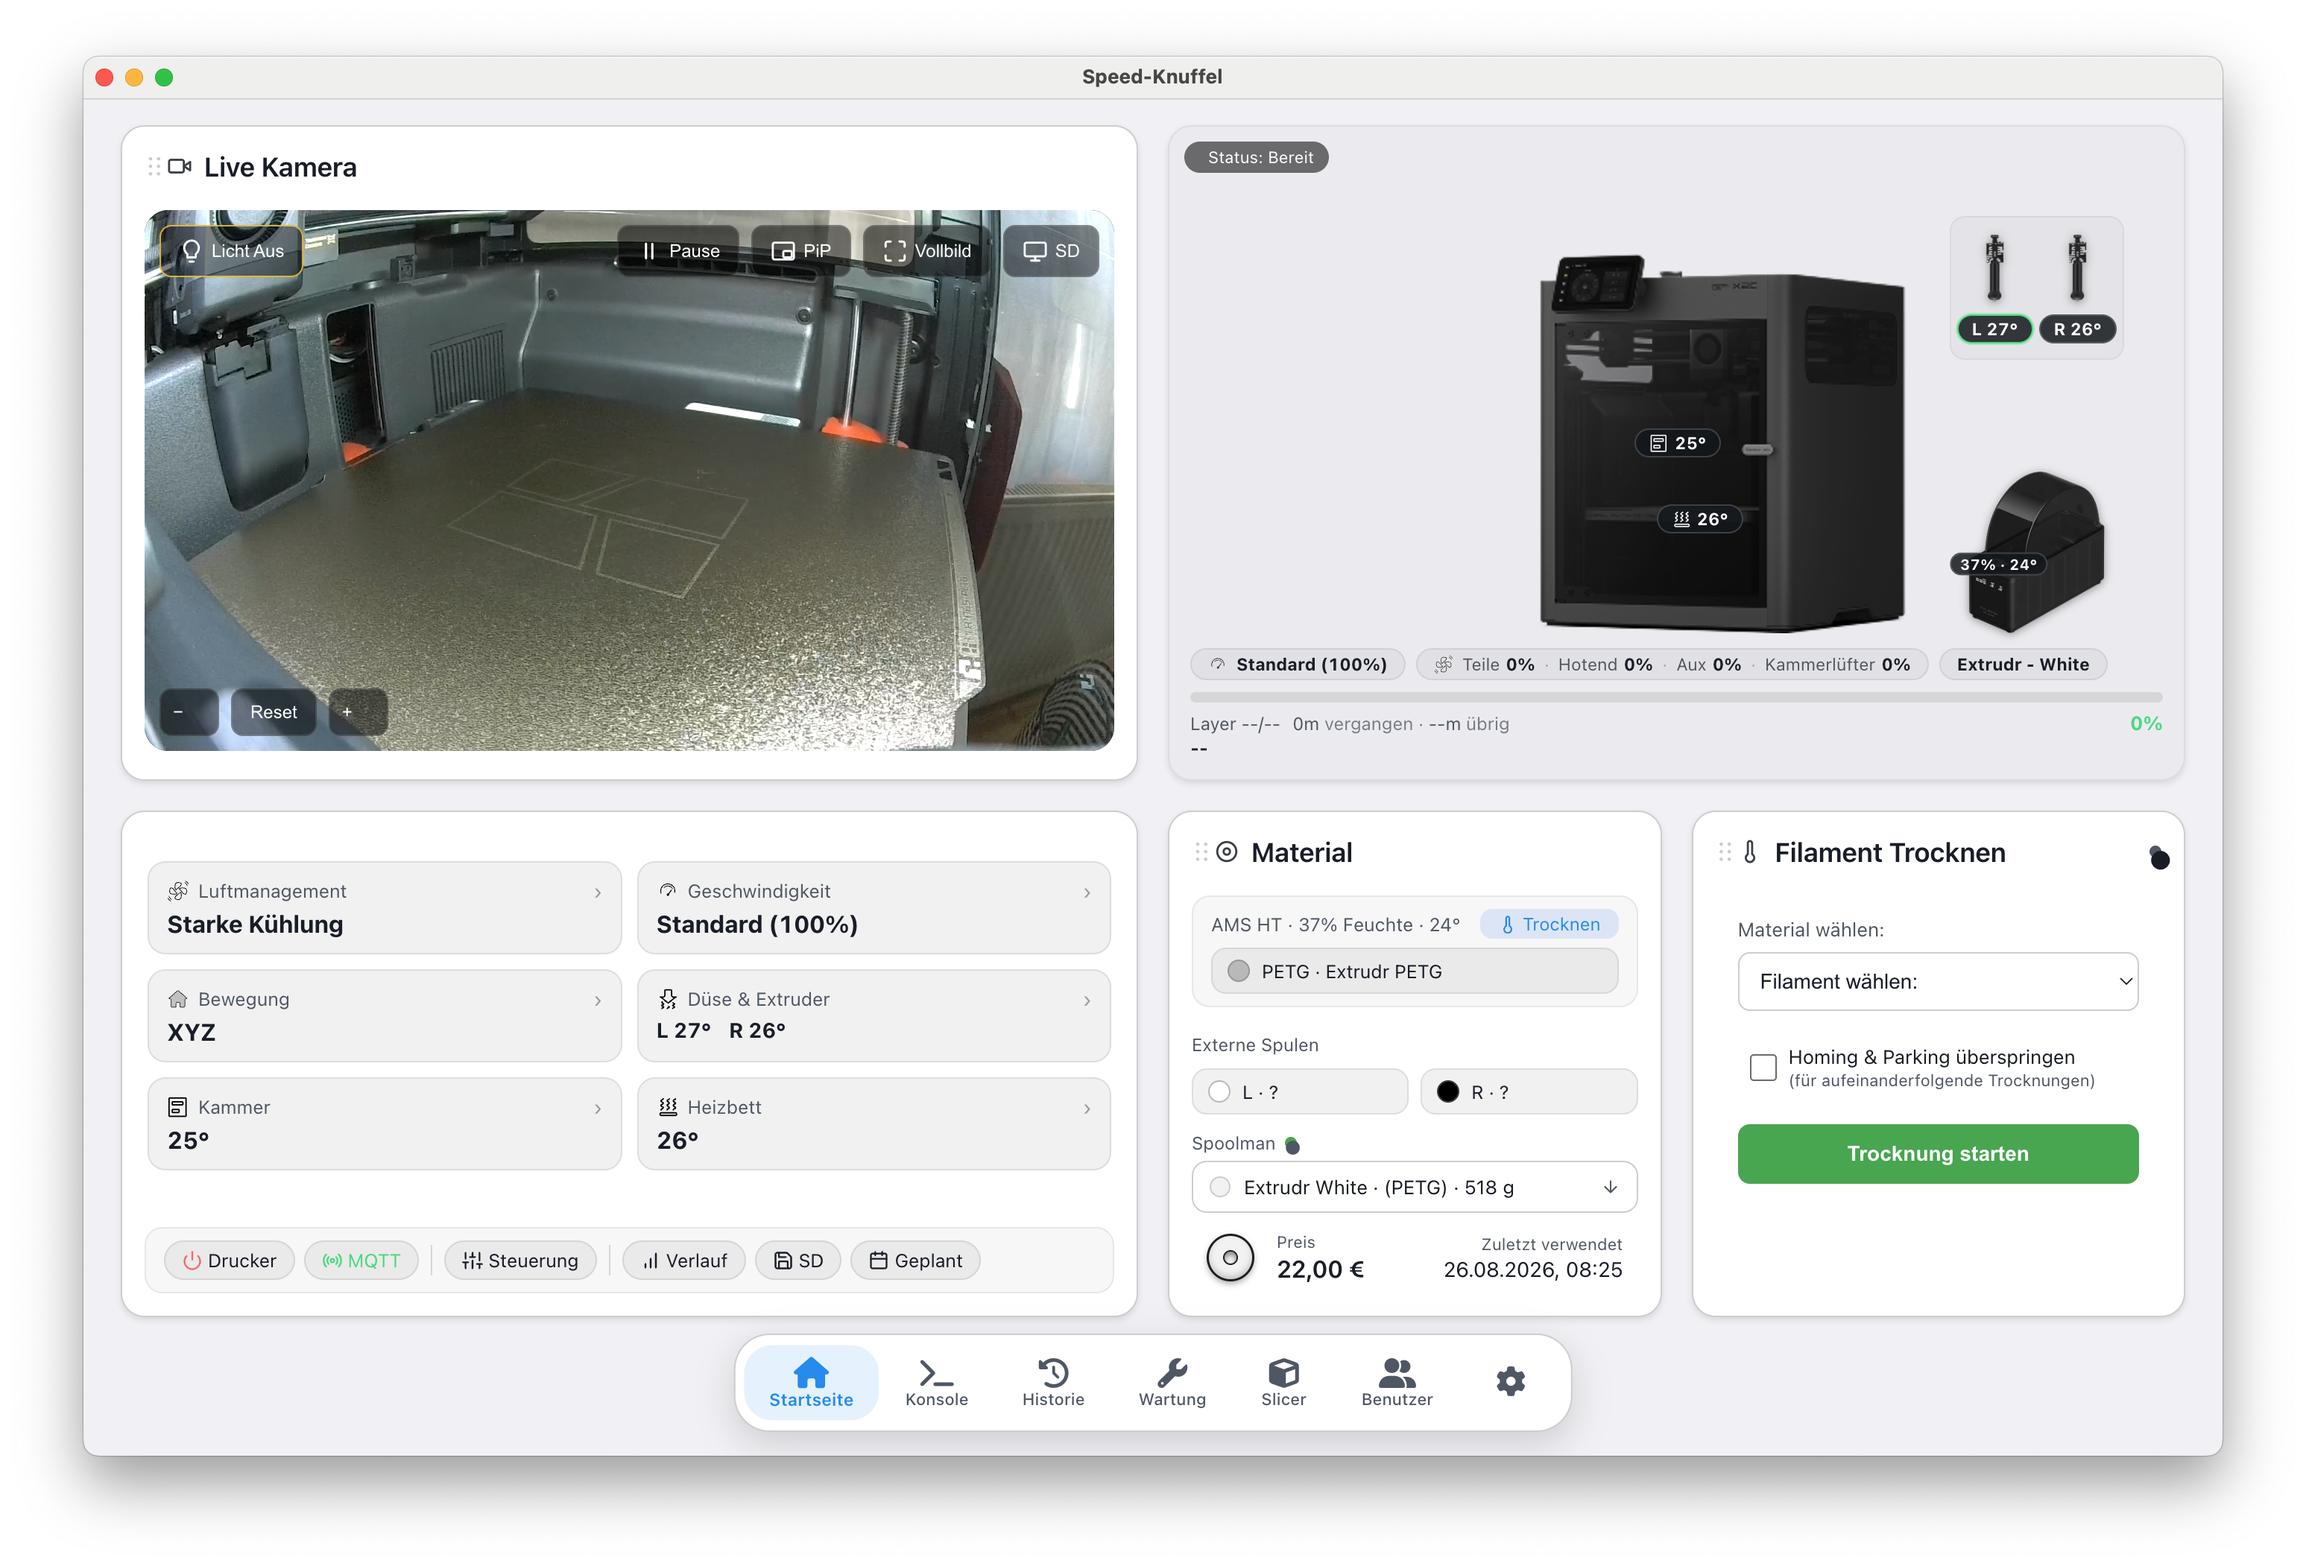
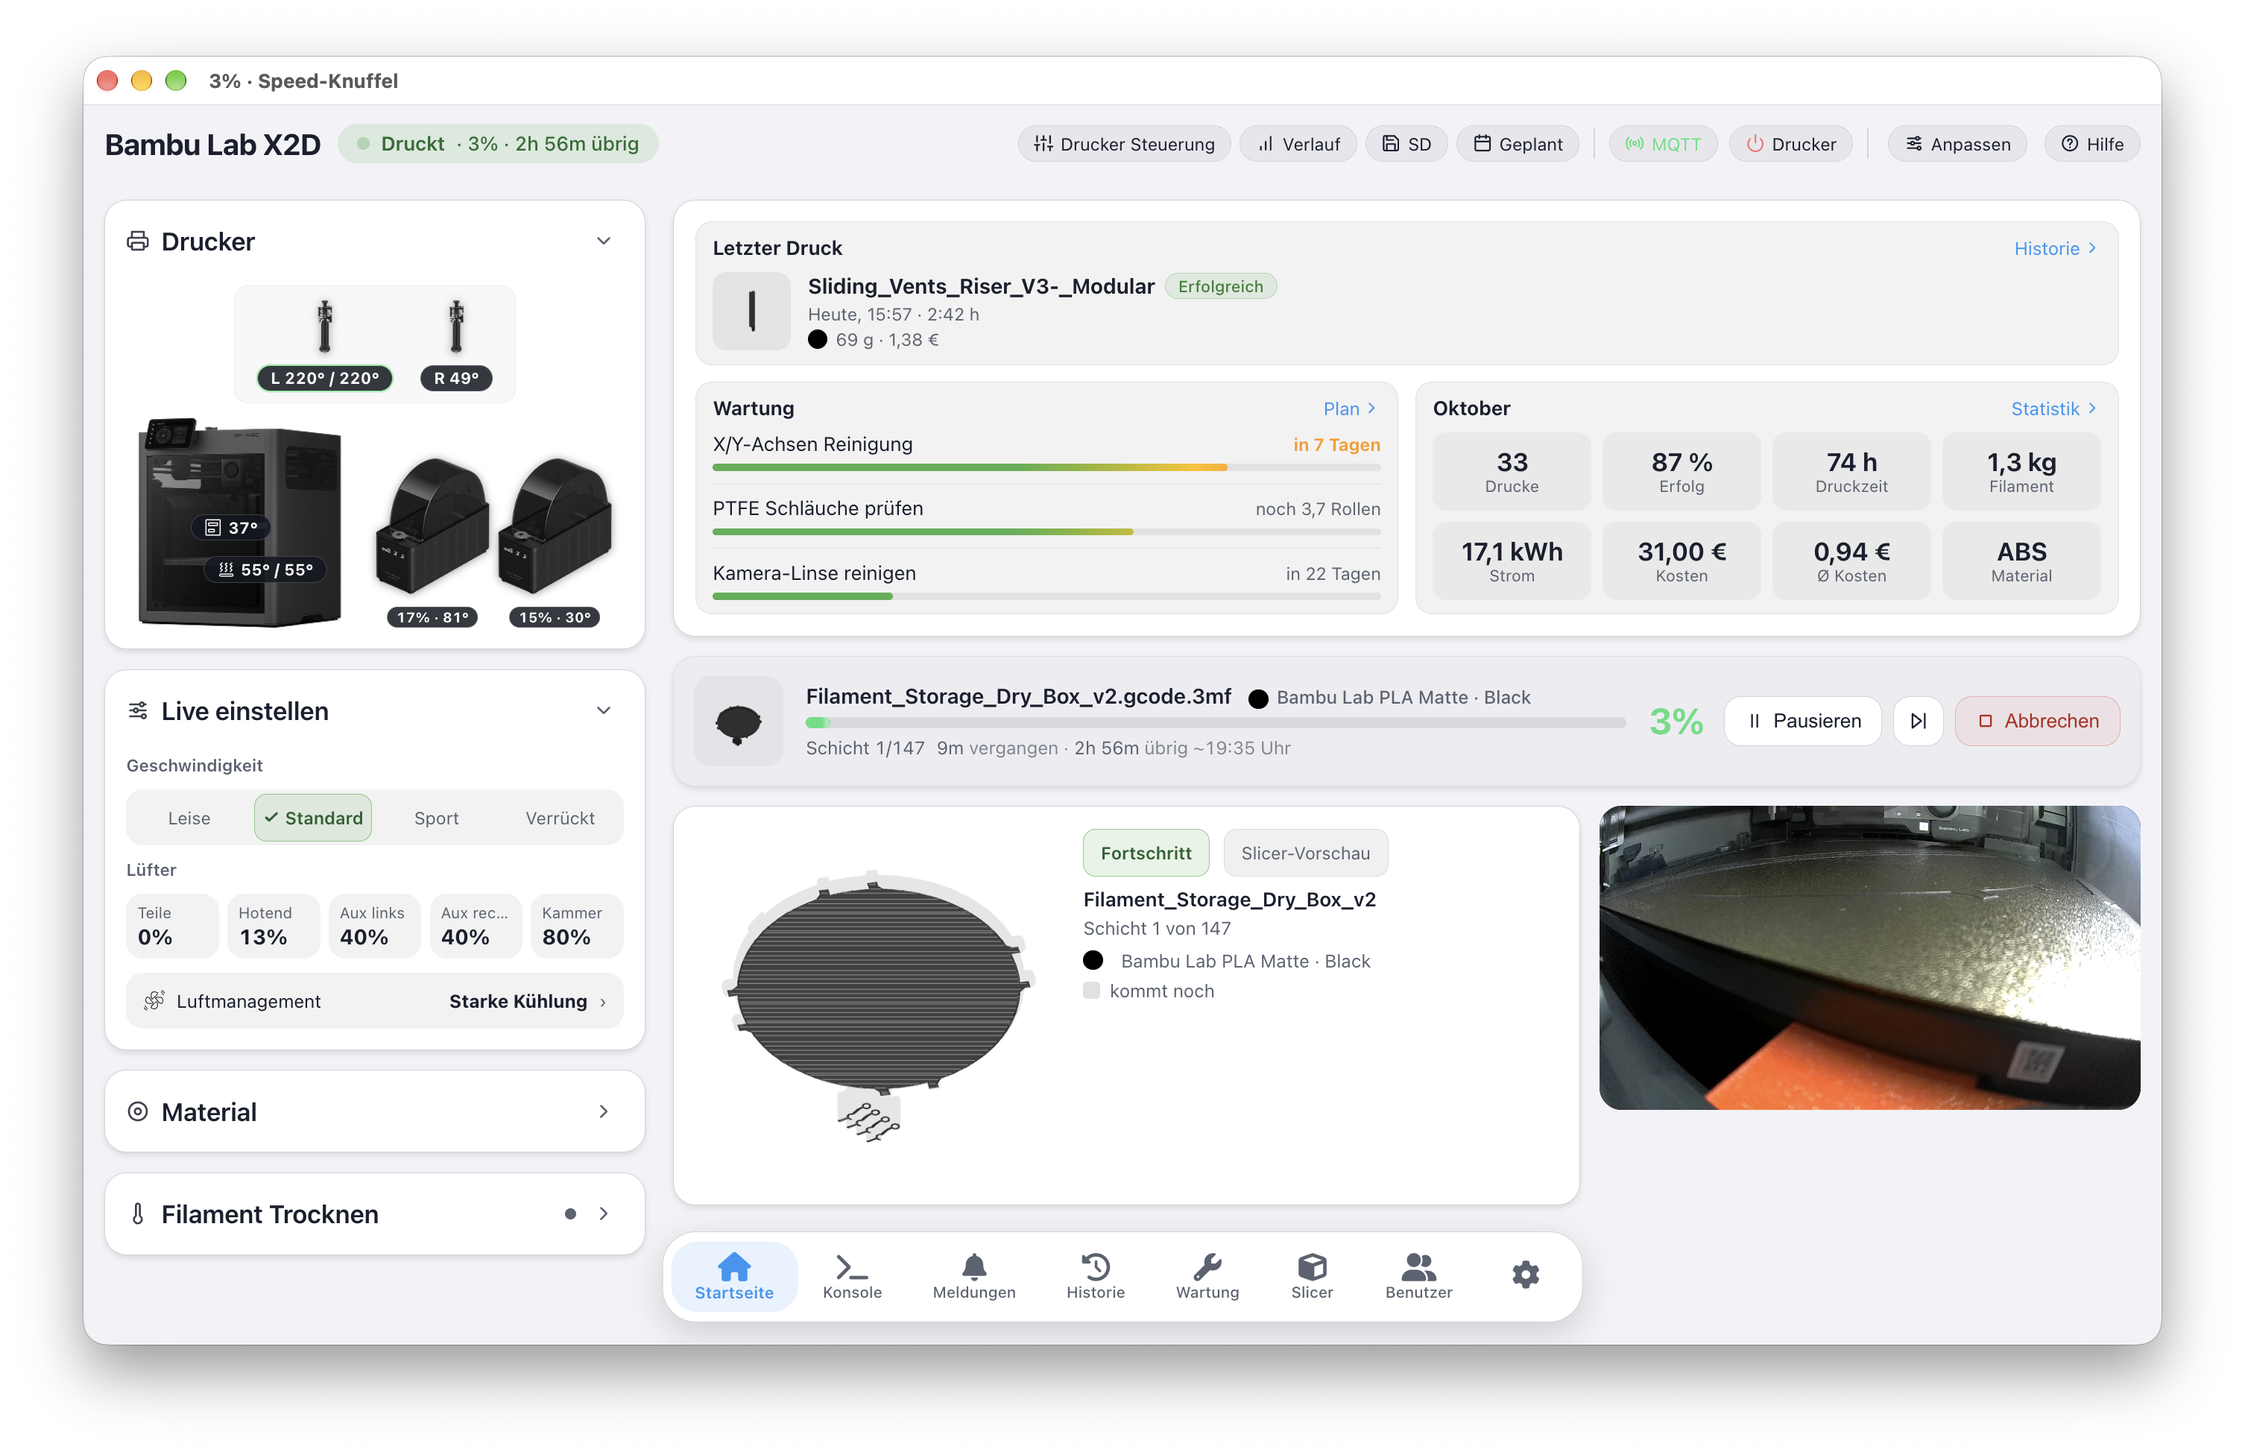
feed: feed install.sh manage.sh quick-install.sh requirements.txt start.py data README.md README.de.md docs/screenshots

diff --git a/README.md b/README.md
@@ -382,8 +382,8 @@ Status is never colour alone — there is always a glyph or a word beside it.
 |---|---|---|---|---|---|---|
 | 🏠 **Home** | ⌨ **Console** | 🕐 **History** | 🔧 **Maintenance** | 📦 **Slicer** | 👥 **Users** | ⚙ **Settings** |
 
-**Dialogs** — fans, speed, temperatures, editing filament, choosing a spool, and
-the sensor history:
+**Dialogs** — fans, speed, temperatures, editing filament, choosing a spool, the
+sensor history, and drying in the AMS with the spool's humidity history:
 
 <div align="center">
 <a href="docs/screenshots/dialog-fans.png"><img src="docs/screenshots/dialog-fans.png" width="190"/></a>
@@ -392,6 +392,9 @@ the sensor history:
 <a href="docs/screenshots/dialog-filament-edit.png"><img src="docs/screenshots/dialog-filament-edit.png" width="190"/></a>
 <a href="docs/screenshots/dialog-spool-select.png"><img src="docs/screenshots/dialog-spool-select.png" width="190"/></a>
 <a href="docs/screenshots/dialog-sensors.png"><img src="docs/screenshots/dialog-sensors.png" width="190"/></a>
+<a href="docs/screenshots/dialog-drying.png"><img src="docs/screenshots/dialog-drying.png" width="190"/></a>
+<a href="docs/screenshots/dialog-drying-history.png"><img src="docs/screenshots/dialog-drying-history.png" width="190"/></a>
+<a href="docs/screenshots/dialog-drying-running.png"><img src="docs/screenshots/dialog-drying-running.png" width="190"/></a>
 </div>
 
 **Settings and console:**

diff --git a/README.de.md b/README.de.md
@@ -385,7 +385,7 @@ Wort.
 | 🏠 **Start** | ⌨ **Konsole** | 🕐 **Historie** | 🔧 **Wartung** | 📦 **Slicer** | 👥 **Benutzer** | ⚙ **Einstellungen** |
 
 **Dialoge** — Lüfter, Geschwindigkeit, Temperaturen, Filament bearbeiten, Spule
-wählen und der Sensorverlauf:
+wählen, der Sensorverlauf und das Trocknen im AMS mit dem Feuchteverlauf der Spule:
 
 <div align="center">
 <a href="docs/screenshots/dialog-fans.png"><img src="docs/screenshots/dialog-fans.png" width="190"/></a>
@@ -394,6 +394,9 @@ wählen und der Sensorverlauf:
 <a href="docs/screenshots/dialog-filament-edit.png"><img src="docs/screenshots/dialog-filament-edit.png" width="190"/></a>
 <a href="docs/screenshots/dialog-spool-select.png"><img src="docs/screenshots/dialog-spool-select.png" width="190"/></a>
 <a href="docs/screenshots/dialog-sensors.png"><img src="docs/screenshots/dialog-sensors.png" width="190"/></a>
+<a href="docs/screenshots/dialog-drying.png"><img src="docs/screenshots/dialog-drying.png" width="190"/></a>
+<a href="docs/screenshots/dialog-drying-history.png"><img src="docs/screenshots/dialog-drying-history.png" width="190"/></a>
+<a href="docs/screenshots/dialog-drying-running.png"><img src="docs/screenshots/dialog-drying-running.png" width="190"/></a>
 </div>
 
 **Einstellungen und Konsole:**
